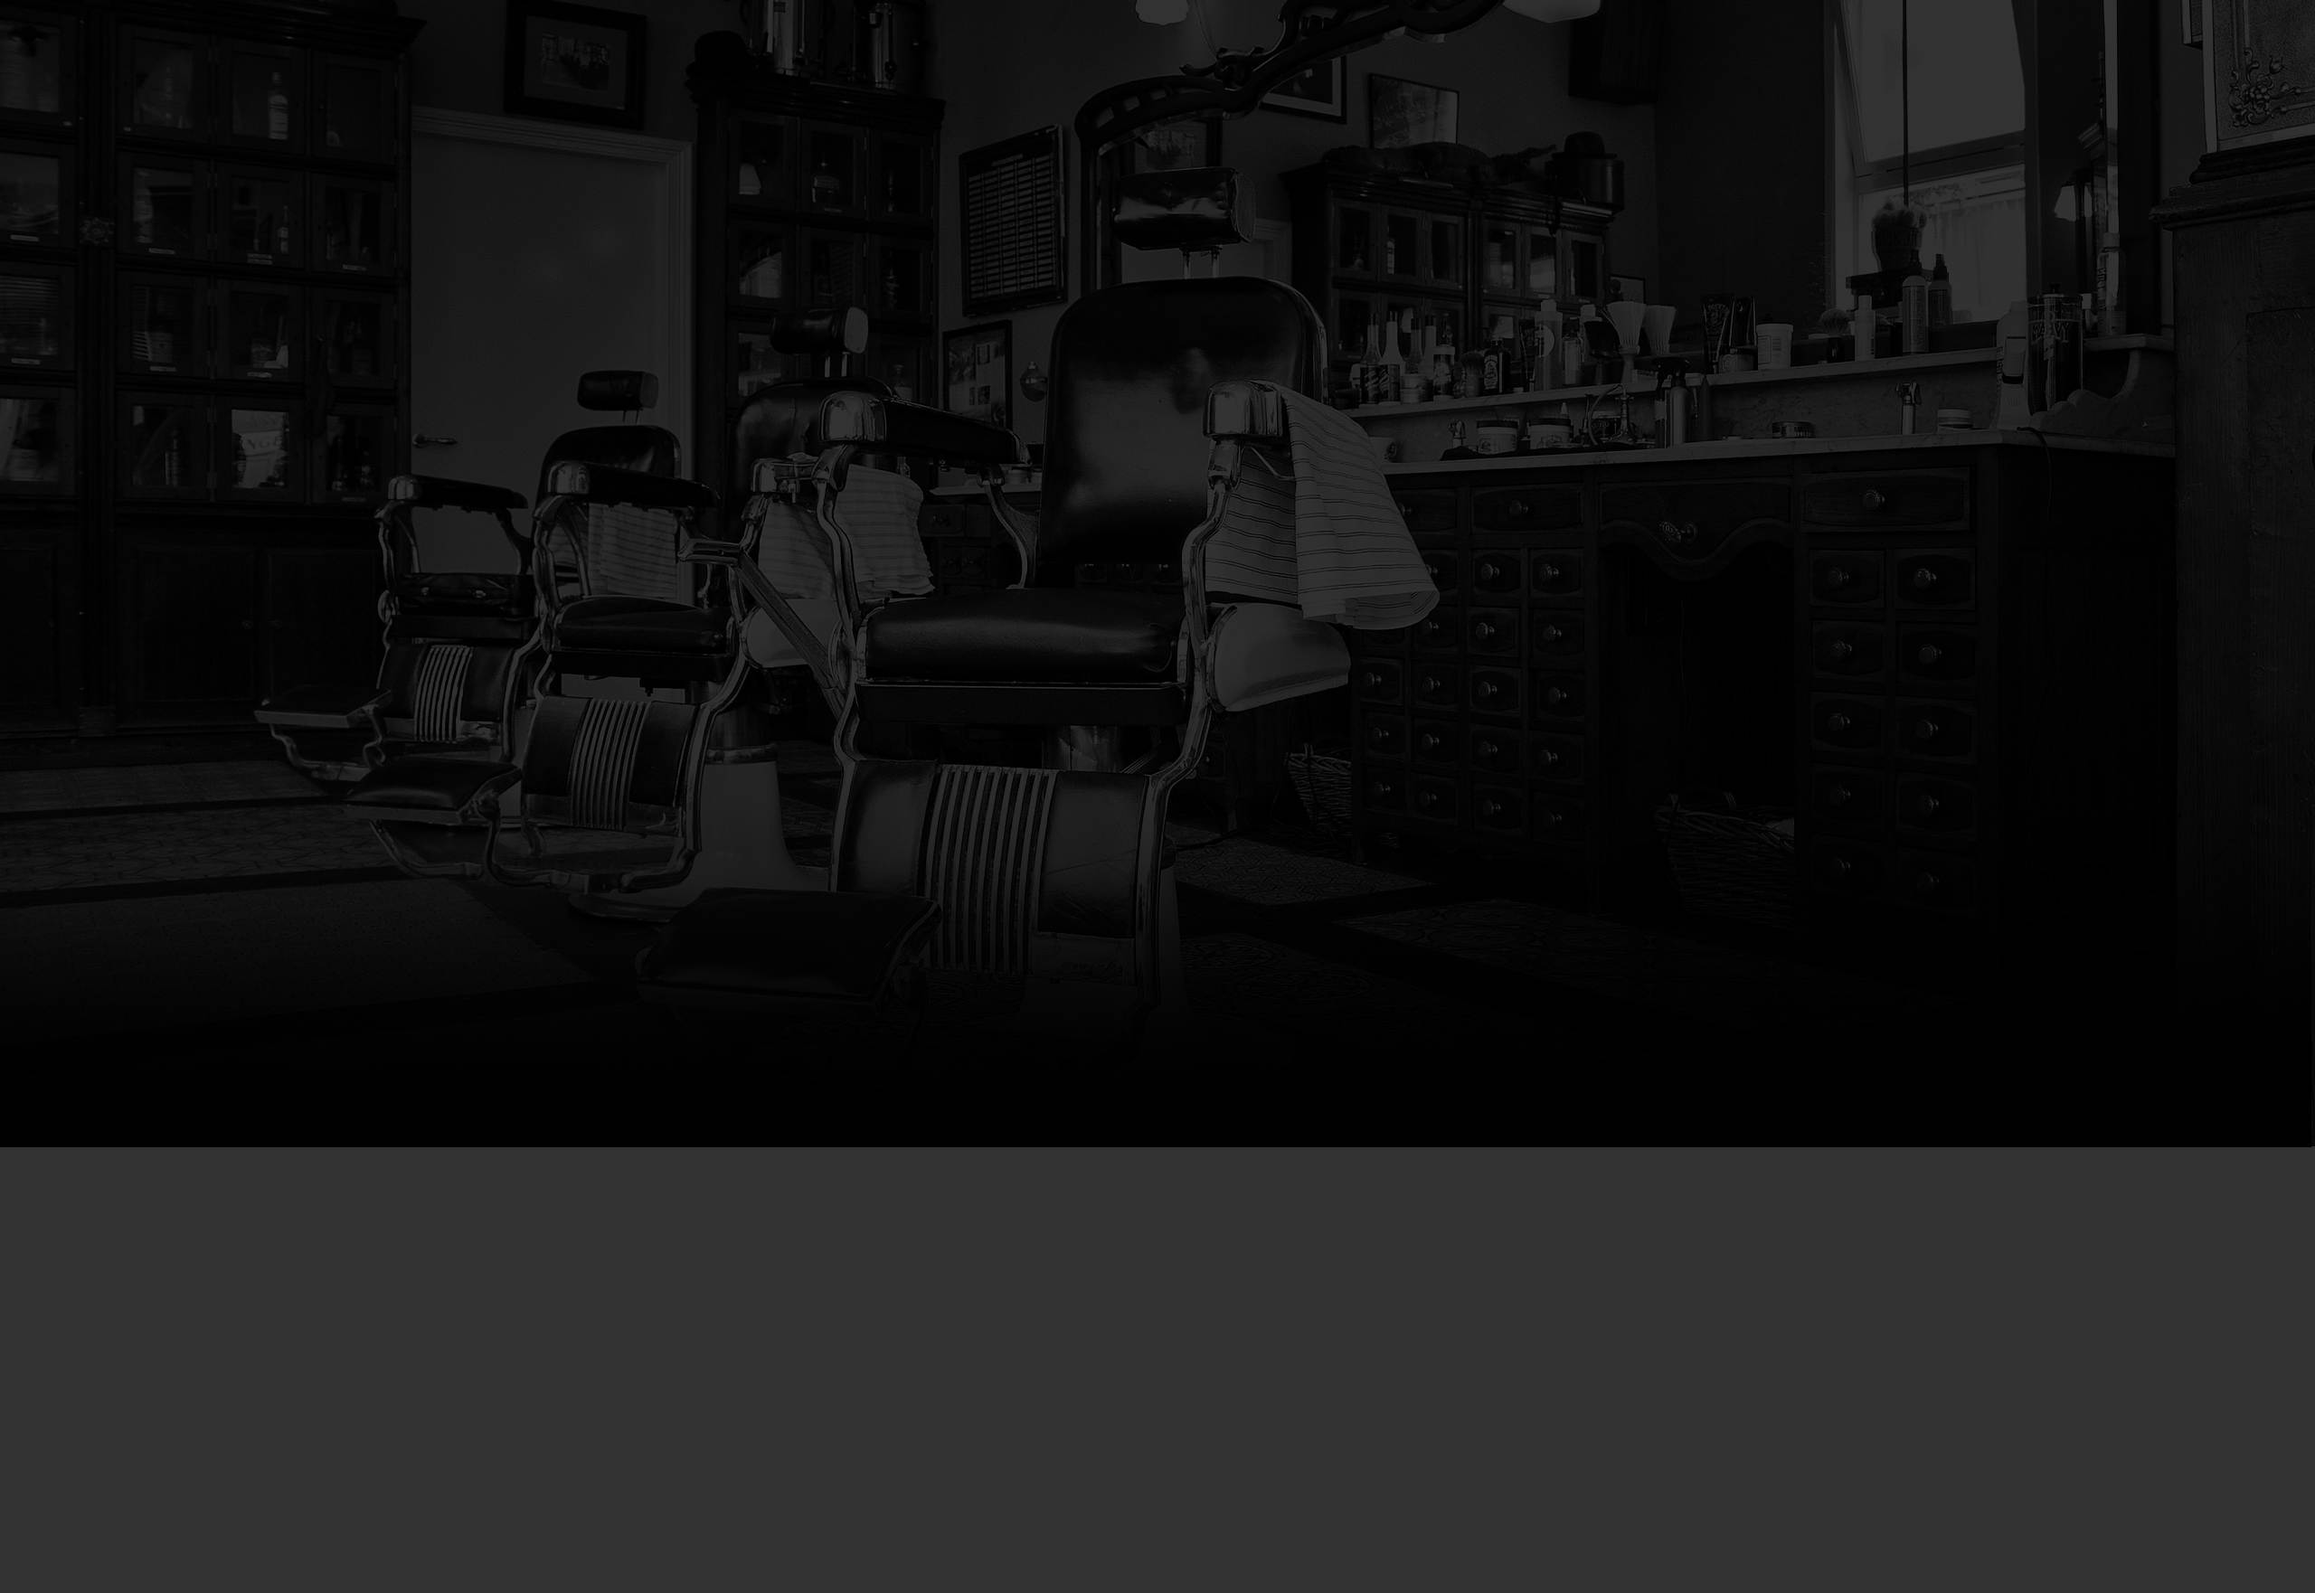
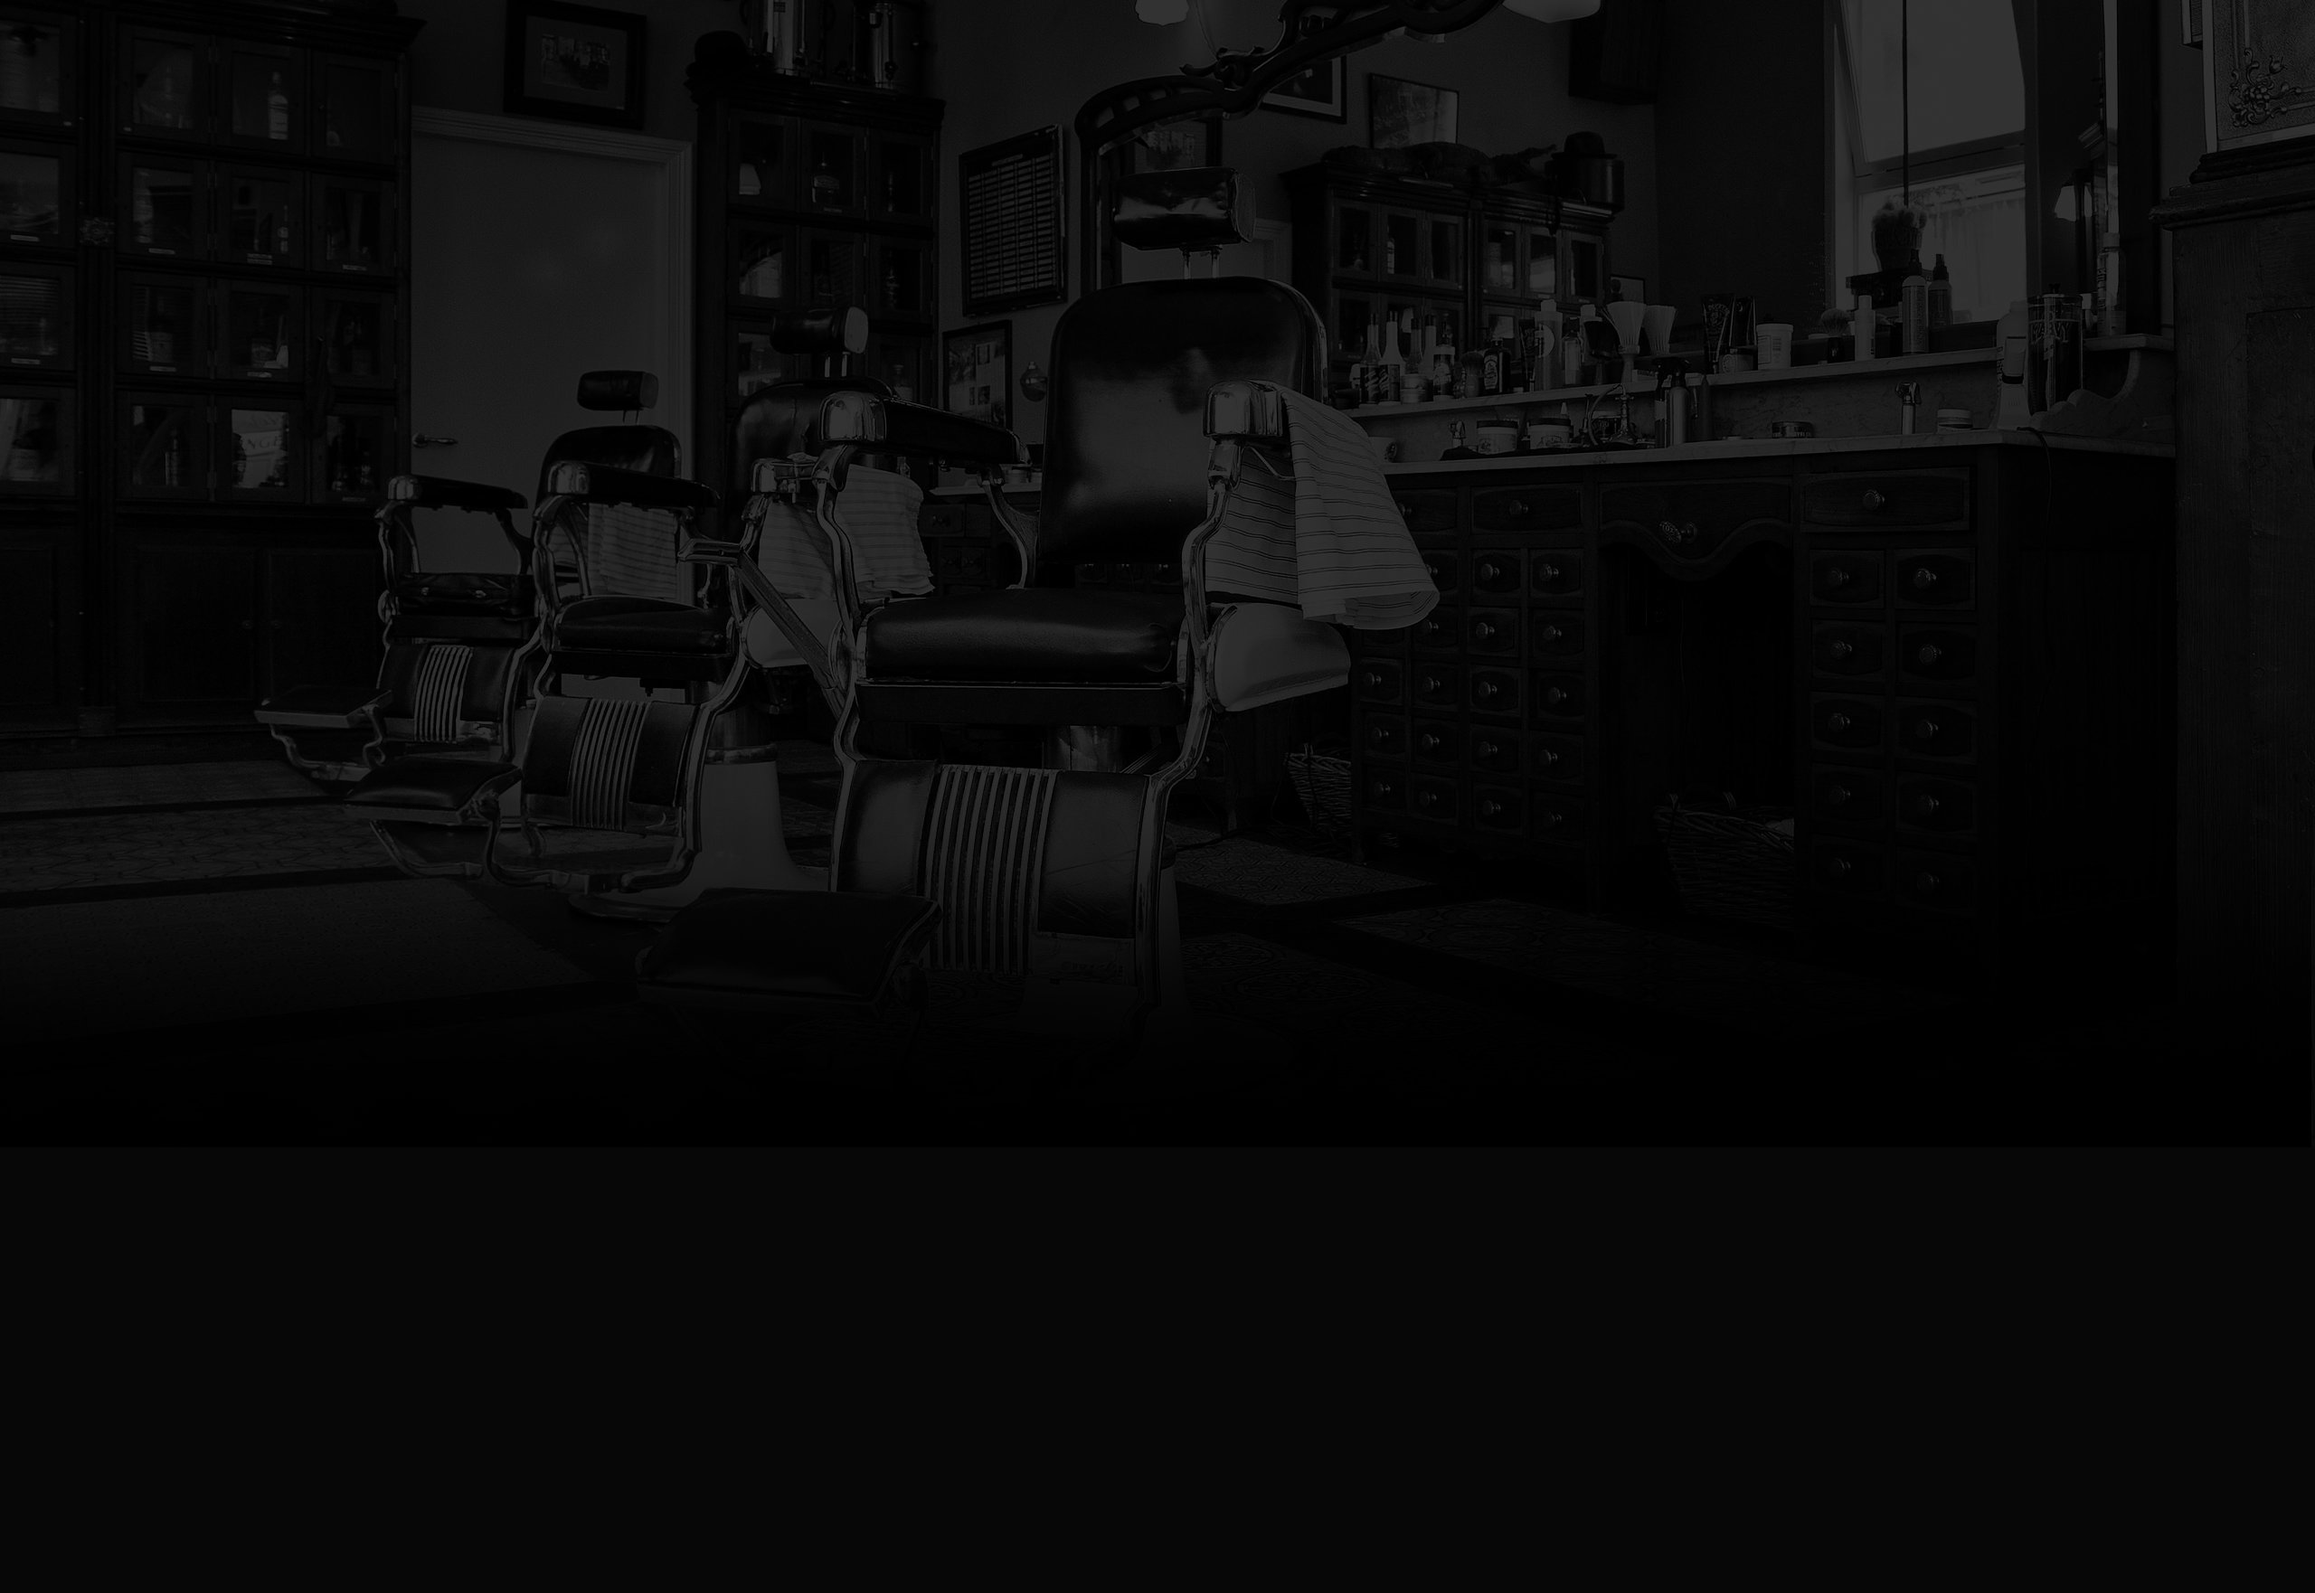
Закончил сетки

Changed region(s): [[0.0, 0.7179, 1.0, 1.0]]

diff --git a/css/style.css b/css/style.css
@@ -3,21 +3,306 @@ body {
   color: #000;
   font-size: 14px;
   font-weight: 700;
-  line-height: 1.7em;
+  line-height: 1.7em;  
 }
 
-h1.page-name,
+ /* выделение границ
+
+
+div, label, ul, li, p, h1, h2, h3, h4, h5, span, article, section {outline: green solid 1px}
+
+*/
+
+
+.clearfix:after {
+  content: '';
+  display: table;
+  clear: both;  
+}
+
+.container {
+  width: 940px;
+  margin: 0 auto;
+}
+
+.main-header{ 
+  padding-top: 10px;  
+  background-color: #000;
+  color: #fff;
+}
+
+.main-navigation {
+  float: left;
+  width: 640px;
+  min-height: 72px;  
+}
+
+.main-navigation ul{
+  margin-left: -40px;
+}
+
+.main-navigation li {
+  display: inline-block;   
+}
+
+.user-block {
+  float: right;
+  width: 100px;
+  min-height: 72px;    
+}
+
+.main-footer {
+  padding-top: 60px;
+  padding-bottom: 45px;
+  
+  background: #232323 url('../img/footer-bg.png')
+}
+
+.footer-contacts {
+  float: left;
+  margin-right: 80px;
+  width: 310px;  
+}
+
+.footer-social {
+  float: left;
+  width: 160px;  
+}
+
+.footer-copyright {
+  float: right;
+  width: 140px;
+}
+
+/* сетка index.html */
+
+.main-index {
+  background: #000 url('../img/bg.jpg') 50% 50% no-repeat;
+}
+
+.main-index .container {
+  padding-top: 57px;
+  padding-bottom: 63px;
+}
+
+.logo {
+  width: 368px;
+  min-height: 204px;
+  margin: 0 auto;  
+  margin-bottom: 30px;
+}
+
+.features-row {
+  margin-bottom: 84px;
+  
+  color: #fff;
+}
+
+.features-item {
+  float: left;
+  margin-right: 60px;
+  width: 270px;
+  min-height: 170px;
+}
+
+.features-item:last-child {
+  margin-right: 0;
+}
+
+.index-content {
+  margin-bottom: 33px;
+  background: #fbf8f5 url('../img/bg1.png') repeat;
+}
+
+.index-content:last-child {
+  margin-bottom: 0;
+}
+
+.content-column-left {
+  float: left;
+  margin-top: 50px;
+  margin-bottom: 50px;
+  margin-left: 60px;
+  width: 330px;
+  min-height: 330px;
+}
+
+.content-column-right {
+  float: right;
+  margin-top: 50px;
+  margin-bottom: 50px;
+  margin-right: 80px;
+  min-height: 330px;
+  width: 330px;
+}
+
 h2.content-column-title {  
   font-size: 30px;
   font-weight: 700;
 }
 
-.manufacturer h2 {
-  font-size: 24px;
+
+/* сетка catalog.html */
+
+.main-catalog {
+  padding-top: 60px;
+  padding-bottom: 47px;
+  background: #fbf8f5 url('../img/bg1.png') repeat; 
+}
+
+h1.page-name {
+  text-align: left;
+  margin-bottom: 30px;  
+  font-size: 30px;
   font-weight: 700;
+}
+
+.breadcrumbs {
+  text-align: left;
+  margin-bottom: 60px;
+  margin-left: -40px;
+}
+
+.breadcrumbs li {
+  display: inline-block;  
+}
+
+.catalog-search {
+  float: left;
+  width: 170px;
+  min-height: 575px;
+  margin-top: -20px;
+  
+  text-align: left;
+  text-transform: capitalize;
+}
+
+.catalog-search label {
+  display: block;
+  margin-bottom: 15px;
+  
+  font-size: 14px;  
+}
+
+.catalog-search manufacturer {
+  margin-bottom: 55px;
+} 
+
+.catalog-search h2 {
+  font-size: 24px;
+  font-weight: 700;  
+}
+
+.catalog-items {
+  float: right;
+  width: 720px;
+  min-height: 600px;
+  margin-right: -20px;
+  margin-bottom: 44px;
 }
 
 .catalog-items h1 {
   font-size: 14px;
   font-weight: 700; 
 }
+
+.item-common {
+  display: inline-block;
+  width: 220px;
+  min-height: 286px;
+  margin-right: 15px;
+  margin-bottom: 20px;
+}
+
+.pagination {
+  clear: both;
+  margin-left: 200px;  
+}
+
+.pagination li {
+  display: inline-block;
+  width: 43px;
+  height: 43px;
+  margin-right: 7px;
+  
+  text-align: center;  
+  background: #000;
+}
+
+.pagination a {
+  color: #fff;  
+}
+
+.pagination .active {
+  background: #fff;
+  color: #000;
+}
+
+/* сетка catalog-item-bocalifornia1 */
+
+.images {
+  float: left;
+  width: 460px;
+  min-height: 670px;
+  text-align: center;
+}
+
+.images big-img {
+  margin-bottom: 20px;  
+}
+
+.small-img img{
+  margin-right: 16px;
+}
+
+.small-img img:last-child {
+  margin-right: 0;
+}
+
+.item-features {
+  float:right;
+  width: 390px;
+  min-height: 530px;
+}
+
+.item-info {
+  padding-top: 20px;
+  text-align: left;  
+}
+
+.item-info .techdata {
+  float: right;
+}
+
+.item-info p {
+  margin: 38px 0;
+}
+
+.btn-buy {
+  margin-bottom: 67px;
+}
+
+.btn-buy .price {
+  display:inline-block;
+  height: 43px;
+  width: 109px;
+  
+  background: #e5e5e5;
+}
+
+.btn-buy .button {
+  display: inline-block;
+  height: 43px;
+  width: 78px;
+  
+  background: #000;
+  color: #fff;
+  text-align: center;
+  margin-left: -4px;
+}
+
+.equipment p {
+  margin-bottom: 38px;
+}
+
+

diff --git a/catalog-item-bocalifornia1.html b/catalog-item-bocalifornia1.html
@@ -24,7 +24,8 @@
       </div>
     </header>
     
-    <div class="container">
+    <div class="main-catalog">
+     <div class="container clearfix">
       <h1 class="page-name">набор для путешествий &laquo;baxter of california&raquo;</h1>
       <ul class="breadcrumbs">
         <li><a href="index.html">главная</a></li>
@@ -33,13 +34,17 @@
         <li class="active">набор для путешествий &laquo;baxter of california&raquo;</li>
       </ul>      
       <div class="images">
-        <img src="img/bocalifornia1-big.jpg" width="460px" height="500px" alt="Набор для путешествий 'BAXTER OF CALIFORNIA">
-        <img src="img/bocalifornia1-1.jpg" width="140px" height="150px" alt="Набор для путешествий 'BAXTER OF CALIFORNIA' 2">
-        <img src="img/bocalifornia1-2.jpg" class="center-image" width="140px" height="150px" alt="Набор для путешествий 'BAXTER OF CALIFORNIA' 3">
-        <img src="img/bocalifornia1-small.jpg" width="140px" height="150px" alt="Набор для путешествий 'BAXTER OF CALIFORNIA' 4">
+        <div class="big-img">
+          <img src="img/bocalifornia1-big.jpg" width="460px" height="500px" alt="Набор для путешествий 'BAXTER OF CALIFORNIA">
+        </div>
+        <div class="small-img">
+          <img src="img/bocalifornia1-1.jpg" width="140px" height="150px" alt="Набор для путешествий 'BAXTER OF CALIFORNIA' 2">
+          <img src="img/bocalifornia1-2.jpg" class="center-image" width="140px" height="150px" alt="Набор для путешествий 'BAXTER OF CALIFORNIA' 3">
+          <img src="img/bocalifornia1-small.jpg" width="140px" height="150px" alt="Набор для путешествий 'BAXTER OF CALIFORNIA' 4">
+        </div>
       </div>
       <div class="item-features">
-        <div class="item-info">
+        <div class="item-info">          
           <span>есть в наличии</span>
           <span class="techdata">
             артикул:dexter-ae
@@ -62,6 +67,7 @@
           </ul>                    
         </div>                        
       </div>
+     </div>  
     </div>
     
     <footer class="main-footer">

diff --git a/catalog.html b/catalog.html
@@ -24,7 +24,8 @@
       </div>
     </header>
     
-    <div class="container">
+    <div class="main-catalog">
+     <div class="container clearfix">
       <h1 class="page-name">Средства для ухода</h1>
       <ul class="breadcrumbs">
         <li><a href="index.html">главная</a></li>
@@ -133,10 +134,11 @@
       </div>
       <ol class="pagination">
         <li><a href="#">1</a></li>
-        <li><span>2</span></li>
+        <li class="active">2</li>
         <li><a href="#">3</a></li>
         <li><a href="#">4</a></li>        
       </ol>
+     </div>
     </div>
     
     <footer class="main-footer">

diff --git a/index.html b/index.html
@@ -24,7 +24,8 @@
       </div>
     </header>
     
-    <div class="container">
+    <div class="main-index">
+     <div class="container">
       <div class="logo">
         <img src="img/logo.png" width="368" height="204" alt="Барбершоп «Бородинский»">
       </div>
@@ -100,6 +101,7 @@
           </div>
         </section>
       </div>
+     </div>
     </div>
     
     <footer class="main-footer">
